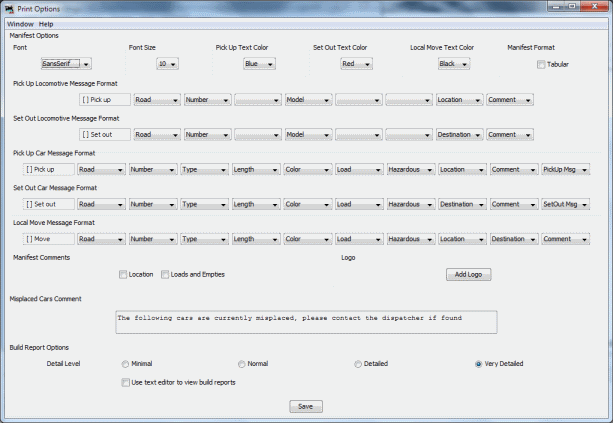
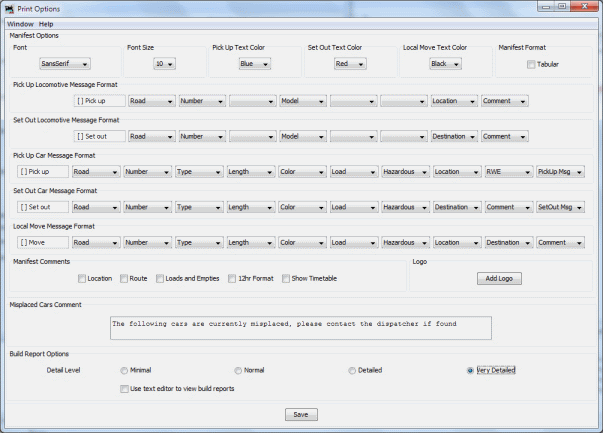
Operations enhancements.  User can now print the route comment on manifests.

diff --git a/java/src/jmri/jmrit/operations/setup/Setup.java b/java/src/jmri/jmrit/operations/setup/Setup.java
@@ -123,6 +123,7 @@ public class Setup {
 	public static final String CONSIST = rb.getString("Consist");
 	public static final String KERNEL = rb.getString("Kernel");
 	public static final String OWNER = rb.getString("Owner");
+	public static final String RWE = rb.getString("RWE");
 	public static final String COMMENT = rb.getString("Comment");
 	public static final String DROP_COMMENT = rb.getString("DropComment");
 	public static final String PICKUP_COMMENT = rb.getString("PickupComment");
@@ -204,6 +205,7 @@ public class Setup {
 	private static boolean generateCsvSwitchList = false;	// when true generate csv switch list
 	
 	private static boolean printLocationComments = false;	// when true print location comments on the manifest
+	private static boolean printRouteComments = false;		// when true print route comments on the manifest
 	private static boolean printLoadsAndEmpties	= false;	// when true print Loads and Empties on the manifest
 	private static boolean printTimetableName	= false;	// when true print timetable name on manifests and switch lists
 	private static boolean use12hrFormat		= false;	// when true use 12hr rather than 24hr format
@@ -469,6 +471,14 @@ public class Setup {
 	
 	public static boolean isPrintLocationCommentsEnabled(){
 		return printLocationComments;
+	}
+	
+	public static void setPrintRouteCommentsEnabled(boolean enable){
+		printRouteComments = enable;
+	}
+	
+	public static boolean isPrintRouteCommentsEnabled(){
+		return printRouteComments;
 	}
 	
 	public static void setPrintLoadsAndEmptiesEnabled(boolean enable){
@@ -937,6 +947,7 @@ public class Setup {
 		box.addItem(COMMENT);
 		box.addItem(DROP_COMMENT);
 		box.addItem(PICKUP_COMMENT);
+		box.addItem(RWE);
 		return box;
 	}
 	
@@ -1034,6 +1045,7 @@ public class Setup {
        	values.setAttribute("engineLogger", isEngineLoggerEnabled()?"true":"false");
        	values.setAttribute("trainLogger", isTrainLoggerEnabled()?"true":"false");
        	values.setAttribute("printLocComments", isPrintLocationCommentsEnabled()?"true":"false");
+       	values.setAttribute("printRouteComments", isPrintRouteCommentsEnabled()?"true":"false");
        	values.setAttribute("printLoadsEmpties", isPrintLoadsAndEmptiesEnabled()?"true":"false");
        	values.setAttribute("printTimetable", isPrintTimetableNameEnabled()?"true":"false");
        	values.setAttribute("use12hrFormat", is12hrFormatEnabled()?"true":"false");
@@ -1255,6 +1267,11 @@ public class Setup {
         		String enable = a.getValue();
         		if (log.isDebugEnabled()) log.debug("printLocComments: "+enable);
         		setPrintLocationCommentsEnabled(enable.equals("true"));
+        	}
+          	if ((a = operations.getChild("settings").getAttribute("printRouteComments"))!= null){
+        		String enable = a.getValue();
+        		if (log.isDebugEnabled()) log.debug("printRouteComments: "+enable);
+        		setPrintRouteCommentsEnabled(enable.equals("true"));
         	}
           	if ((a = operations.getChild("settings").getAttribute("printLoadsEmpties"))!= null){
         		String enable = a.getValue();

diff --git a/java/src/jmri/jmrit/operations/setup/PrintOptionFrame.java b/java/src/jmri/jmrit/operations/setup/PrintOptionFrame.java
@@ -58,6 +58,7 @@ public class PrintOptionFrame extends OperationsFrame{
     JCheckBox tabFormatCheckBox = new JCheckBox(rb.getString("TabFormat"));
 	JCheckBox buildReportCheckBox = new JCheckBox(rb.getString("BuildReportEdit"));
 	JCheckBox printLocCommentsCheckBox = new JCheckBox(rb.getString("PrintLocationComments"));
+	JCheckBox printRouteCommentsCheckBox = new JCheckBox(rb.getString("PrintRouteComments"));
 	JCheckBox printLoadsEmptiesCheckBox = new JCheckBox(rb.getString("PrintLoadsEmpties"));
 	JCheckBox printTimetableNameCheckBox = new JCheckBox(rb.getString("PrintTimetableName"));
 	JCheckBox use12hrFormatCheckBox = new JCheckBox(rb.getString("12hrFormat"));
@@ -102,6 +103,7 @@ public class PrintOptionFrame extends OperationsFrame{
 		removeLogoButton.setToolTipText(rb.getString("RemoveLogoToolTip"));
 		tabFormatCheckBox.setToolTipText(rb.getString("TabComment"));
 		printLocCommentsCheckBox.setToolTipText(rb.getString("AddLocationComments"));
+		printRouteCommentsCheckBox.setToolTipText(rb.getString("AddRouteComments"));
 		printLoadsEmptiesCheckBox.setToolTipText(rb.getString("LoadsEmptiesComment"));
 		printTimetableNameCheckBox.setToolTipText(rb.getString("ShowTimetableTip"));
 		use12hrFormatCheckBox.setToolTipText(rb.getString("Use12hrFormatTip"));
@@ -224,6 +226,7 @@ public class PrintOptionFrame extends OperationsFrame{
 		JPanel pManifestComment = new JPanel();
 		pManifestComment.setBorder(BorderFactory.createTitledBorder(rb.getString("BorderLayoutComments")));
 		pManifestComment.add(printLocCommentsCheckBox);
+		pManifestComment.add(printRouteCommentsCheckBox);
 		pManifestComment.add(printLoadsEmptiesCheckBox);
 		pManifestComment.add(use12hrFormatCheckBox);
 		pManifestComment.add(printTimetableNameCheckBox);
@@ -273,6 +276,7 @@ public class PrintOptionFrame extends OperationsFrame{
 		
 		tabFormatCheckBox.setSelected(Setup.isTabEnabled());
 		printLocCommentsCheckBox.setSelected(Setup.isPrintLocationCommentsEnabled());
+		printRouteCommentsCheckBox.setSelected(Setup.isPrintRouteCommentsEnabled());
 		printLoadsEmptiesCheckBox.setSelected(Setup.isPrintLoadsAndEmptiesEnabled());
 		printTimetableNameCheckBox.setSelected(Setup.isPrintTimetableNameEnabled());
 		use12hrFormatCheckBox.setSelected(Setup.is12hrFormatEnabled());
@@ -392,6 +396,7 @@ public class PrintOptionFrame extends OperationsFrame{
 				Setup.setBuildReportLevel(Setup.BUILD_REPORT_VERY_DETAILED);
 			Setup.setTabEnabled(tabFormatCheckBox.isSelected());
 			Setup.setPrintLocationCommentsEnabled(printLocCommentsCheckBox.isSelected());
+			Setup.setPrintRouteCommentsEnabled(printRouteCommentsCheckBox.isSelected());
 			Setup.setPrintLoadsAndEmptiesEnabled(printLoadsEmptiesCheckBox.isSelected());
 			Setup.set12hrFormatEnabled(use12hrFormatCheckBox.isSelected());
 			Setup.setPrintTimetableNameEnabled(printTimetableNameCheckBox.isSelected());

diff --git a/java/src/jmri/jmrit/operations/trains/TrainBuilder.java b/java/src/jmri/jmrit/operations/trains/TrainBuilder.java
@@ -2329,9 +2329,11 @@ public class TrainBuilder extends TrainCommon{
 			addLine(fileOut, train.getComment());
 		}
 		
-		List<String> engineList = engineManager.getByTrainList(train);
-		
+		List<String> engineList = engineManager.getByTrainList(train);		
 		pickupEngines(fileOut, engineList, train.getTrainDepartsRouteLocation());
+		
+		if (Setup.isPrintRouteCommentsEnabled() && !train.getRoute().getComment().equals(""))
+			addLine(fileOut, train.getRoute().getComment());
 		
 		List<String> carList = carManager.getByTrainDestinationList(train);
 		log.debug("Train has " + carList.size() + " cars assigned to it");

diff --git a/java/src/jmri/jmrit/operations/trains/TrainCsvCommon.java b/java/src/jmri/jmrit/operations/trains/TrainCsvCommon.java
@@ -47,7 +47,7 @@ public class TrainCsvCommon extends TrainCommon {
 	protected final static String VT = "VT"+del+"Valid"+del;
 	
 	// switch list specific operators
-	protected final static String DL = "DL"+del+"Departure Location"+del;
+	protected final static String DL = "DL"+del+"Departure Location Name"+del;
 	protected final static String ETA = "ETA"+del+"Expected Time Arrival"+del;
 	protected final static String ETE = "ETE"+del+"Estimated Time Enroute"+del;
 	protected final static String NCPU = "NCPU"+del+"No Car Pick Up";

diff --git a/java/src/jmri/jmrit/operations/trains/TrainCommon.java b/java/src/jmri/jmrit/operations/trains/TrainCommon.java
@@ -198,6 +198,11 @@ public class TrainCommon {
 			return " "+CarLoads.instance().getPickupComment(car.getType(), car.getLoad());
 		else if (attribute.equals(Setup.KERNEL))
 			return " "+tabString(car.getKernelName(), Control.MAX_LEN_STRING_ATTRIBUTE);
+		else if (attribute.equals(Setup.RWE)){
+			if (!car.getReturnWhenEmptyDestName().equals(""))
+				return " "+rb.getString("RWE")+" "+car.getReturnWhenEmptyDestName();
+			return "";
+		}
 		return getRollingStockAttribute(car, attribute, pickup, local);
 	}
 

diff --git a/java/src/jmri/jmrit/operations/trains/TrainCsvManifest.java b/java/src/jmri/jmrit/operations/trains/TrainCsvManifest.java
@@ -59,6 +59,8 @@ public class TrainCsvManifest extends TrainCsvCommon {
 			for (int i=0; i<comments.length; i++)
 				addLine(fileOut, TC+"\""+comments[i]+"\"");							
 		}
+		if (Setup.isPrintRouteCommentsEnabled())
+			addLine(fileOut, RC+"\""+train.getRoute().getComment()+"\"");
 
 		// get engine and car lists
 		List<String> engineList = engineManager.getByTrainList(train);			
